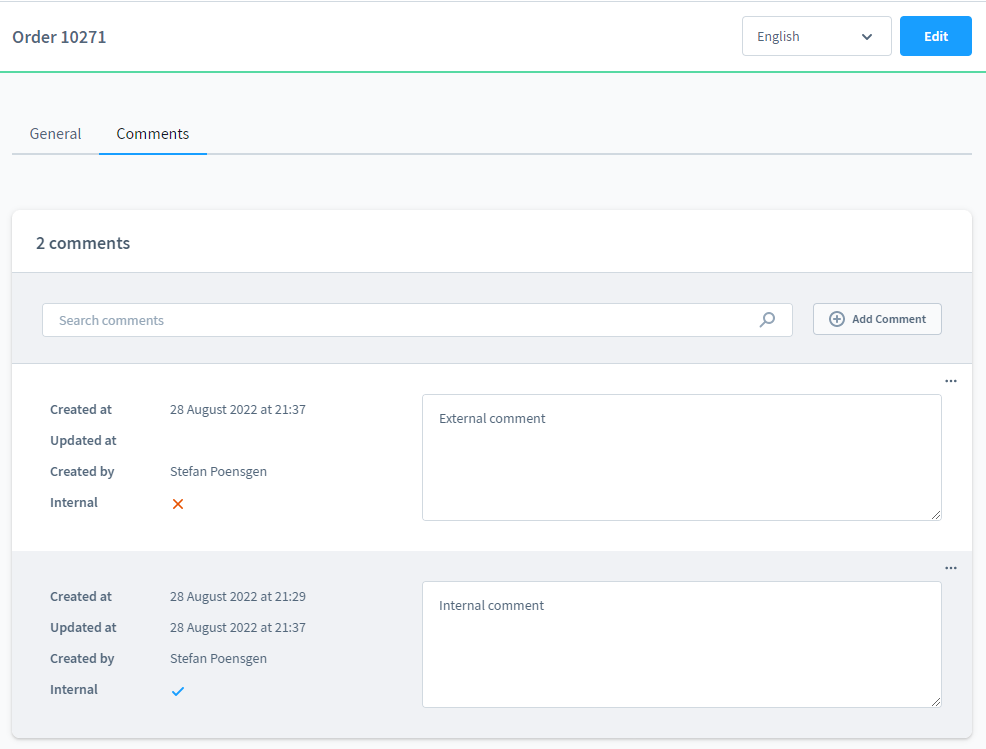
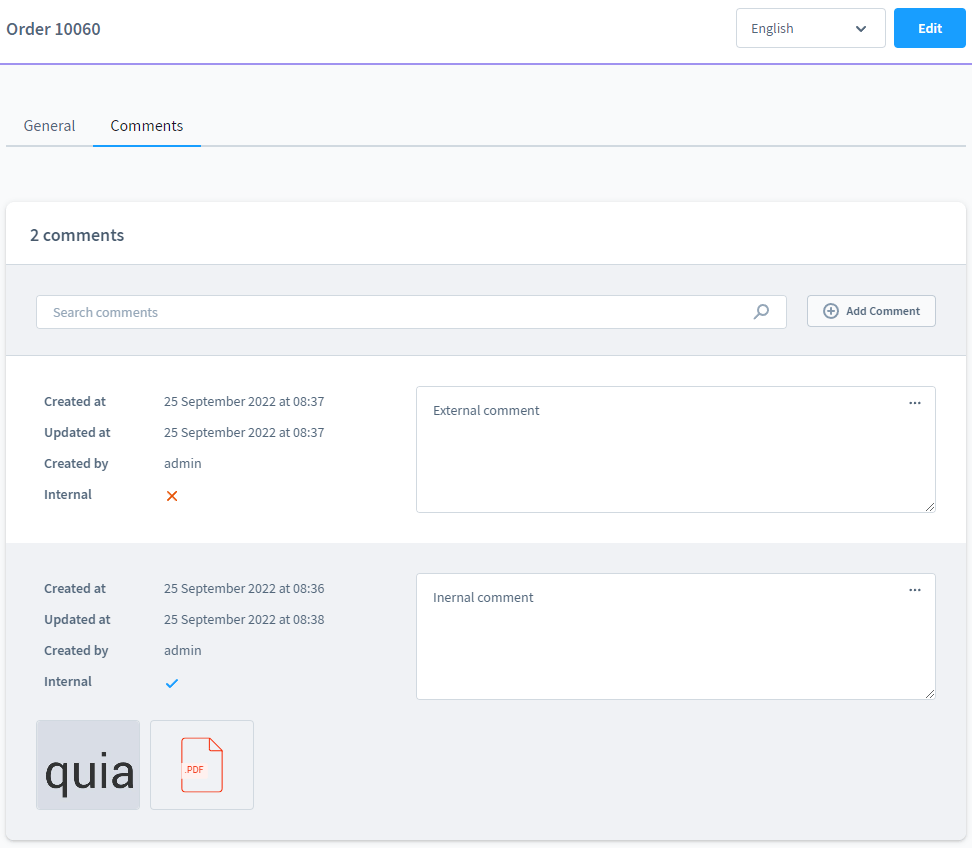
feat: added media to order comment

diff --git a/tests/Subscriber/MediaFileExtensionWhitelistSubscriberTest.php b/tests/Subscriber/MediaFileExtensionWhitelistSubscriberTest.php
@@ -1,0 +1,58 @@
+<?php declare(strict_types=1);
+
+namespace SptecOrderComments\Test;
+
+use PHPUnit\Framework\TestCase;
+use Shopware\Core\Content\Media\Event\MediaFileExtensionWhitelistEvent;
+use Shopware\Core\Framework\Test\TestCaseBase\IntegrationTestBehaviour;
+use Shopware\Core\System\SystemConfig\SystemConfigService;
+use SptecOrderComments\Subscriber\MediaFileExtensionWhitelistSubscriber;
+
+class MediaFileExtensionWhitelistSubscriberTest extends TestCase
+{
+    use IntegrationTestBehaviour;
+
+    /**
+     * @var MediaFileExtensionWhitelistSubscriber
+     */
+    private $mediaFileExtensionWhitelistSubscriber;
+
+    /**
+     * @var SystemConfigService
+     */
+    private $systemConfigService;
+
+    protected function setUp(): void
+    {
+        $container = $this->getContainer();
+
+        /** @var MediaFileExtensionWhitelistSubscriber $subscriber */
+        $subscriber = $container->get(MediaFileExtensionWhitelistSubscriber::class);
+        $this->mediaFileExtensionWhitelistSubscriber = $subscriber;
+
+        /** @var SystemConfigService $systemConfigService */
+        $systemConfigService = $container->get(SystemConfigService::class);
+        $this->systemConfigService = $systemConfigService;
+    }
+
+    public function testGetSubscribedEvents(): void
+    {
+        static::assertSame(
+            [
+                MediaFileExtensionWhitelistEvent::class => 'addEntriesToFileExtensionWhitelist',
+            ],
+            MediaFileExtensionWhitelistSubscriber::getSubscribedEvents()
+        );
+    }
+
+    public function testAddEntriesToFileExtensionWhitelist(): void
+    {
+        $this->systemConfigService->set('SptecOrderComments.config.extensionWhitelist', 'docx, xlsx');
+        $event = new MediaFileExtensionWhitelistEvent([]);
+
+        $this->mediaFileExtensionWhitelistSubscriber->addEntriesToFileExtensionWhitelist($event);
+
+        static::assertContains('docx', $event->getWhitelist());
+        static::assertContains('xlsx', $event->getWhitelist());
+    }
+}

diff --git a/src/Subscriber/MediaFileExtensionWhitelistSubscriber.php b/src/Subscriber/MediaFileExtensionWhitelistSubscriber.php
@@ -1,0 +1,38 @@
+<?php
+
+declare(strict_types=1);
+
+namespace SptecOrderComments\Subscriber;
+
+use Shopware\Core\Content\Media\Event\MediaFileExtensionWhitelistEvent;
+use Shopware\Core\System\SystemConfig\SystemConfigService;
+use Symfony\Component\EventDispatcher\EventSubscriberInterface;
+
+class MediaFileExtensionWhitelistSubscriber implements EventSubscriberInterface
+{
+    private SystemConfigService $systemConfigService;
+
+    public function __construct(SystemConfigService $systemConfigService)
+    {
+        $this->systemConfigService = $systemConfigService;
+    }
+
+    public static function getSubscribedEvents(): array
+    {
+        return [
+            MediaFileExtensionWhitelistEvent::class => 'addEntriesToFileExtensionWhitelist',
+        ];
+    }
+
+    public function addEntriesToFileExtensionWhitelist(MediaFileExtensionWhitelistEvent $event): void
+    {
+        $extensionWhitelist = $this->systemConfigService->get('SptecOrderComments.config.extensionWhitelist');
+        if (!\is_string($extensionWhitelist)) {
+            return;
+        }
+
+        $extensionWhitelist = \array_map('trim', \explode(',', $extensionWhitelist));
+        $whiteList = $event->getWhitelist();
+        $event->setWhitelist(\array_merge($whiteList, $extensionWhitelist));
+    }
+}
